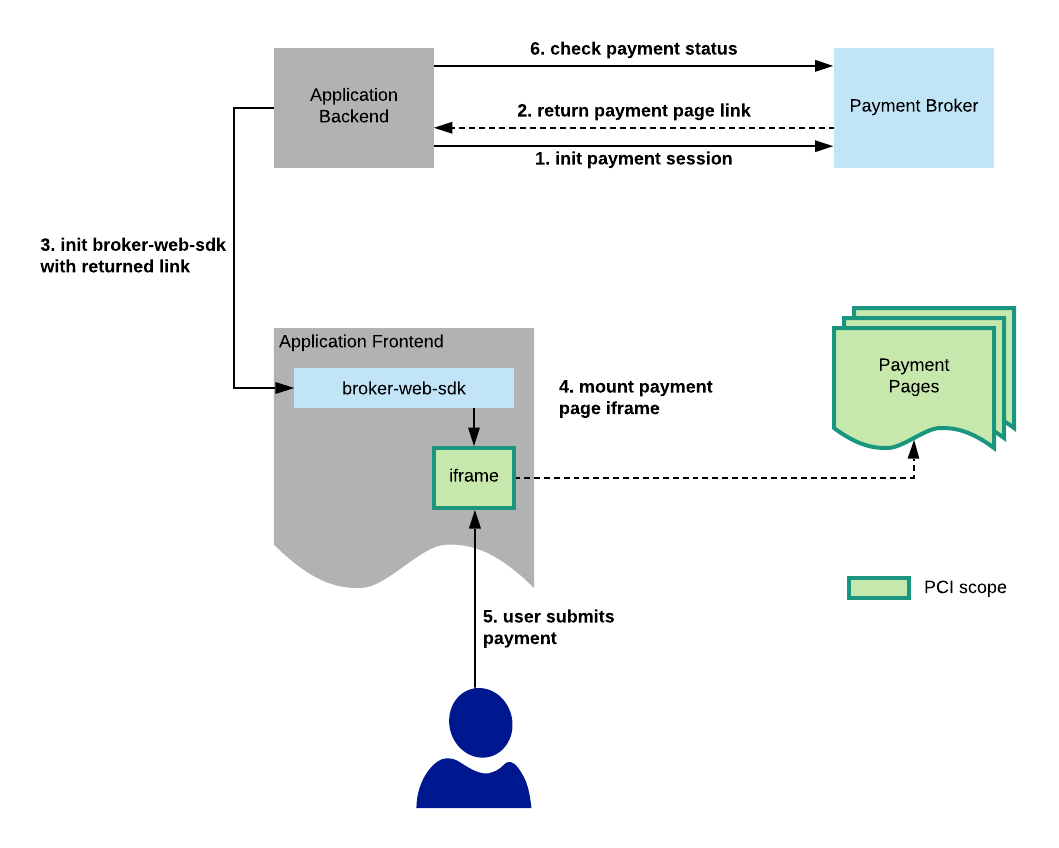
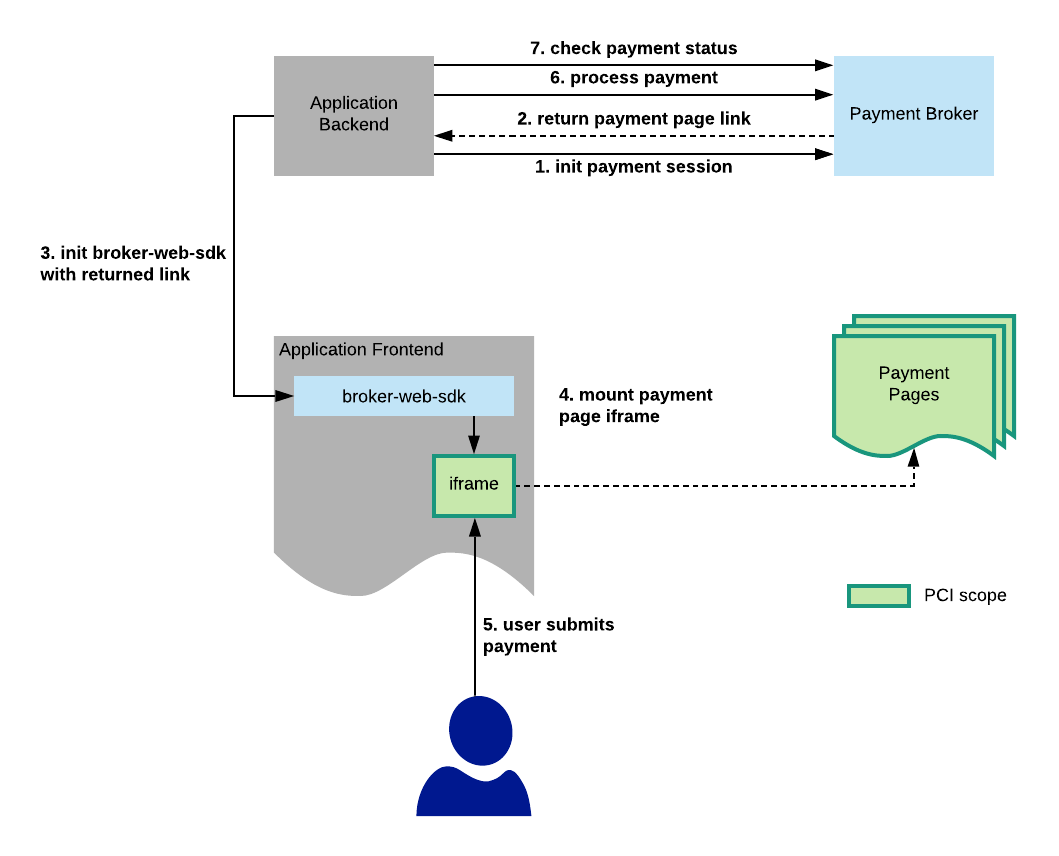
Updates from team meeting

diff --git a/README.md b/README.md
@@ -29,7 +29,7 @@ var BrokerWebSdk = require('@touchnet/broker-web-sdk/umd/broker-web-sdk.min.js')
   If the SDK times-out, but the submission ultimately succeeds, the next submission will fail with a "payer data already collected" error. Your app would need to handle that situation appropriately.
 
 ### Quick Start
-1. Create a payment session by calling `POST /c/{tenantId}/api/v2/customer/ps` . See the Open API documentation for more details
+1. Create a payment session by calling `POST /c/{tenantId}/api/v2/customer/ps`. Your application should provide a [`returnUrl`](#returnUrl) for the end users to return to once the payment session flow is complete. See the Open API documentation for more details
 2. in the response you will find a payment session id and url link labelled `redirectTo` that directs to the next step in the payment flow.
 3. use the `redirectTo` link to initialize the broker SDK by calling the constructor
 ```javascript
@@ -40,6 +40,7 @@ const sdk = new BrokerWebSDK(redirectTo)
 ```javascript
 // Note: `.pay-element` is a query selector for the element in which you want the SDK to insert the form.
 // Some payment methods do not require extra fields, so calling `mount` may not always insert new HTML elements into the DOM.
+// For this reason, mount() will returns a boolean indicating whether it mounted something or not.
 sdk.mount('.pay-element')
 // Register a listener on your own submit event that calls `sdk.submit()`
 const form = document.getElementById("checkout-form");
@@ -59,18 +60,21 @@ form.addEventListener("submit", function(event) {
 > We recommend that you wrap the div or element that you mount the SDK's element in with a form.
 > If you do so, the user can hit enter in the SDK's form and your form's submit event will be
 > triggered automatically.
-5. The user will interact with the broker within this iframe, insulating your application from PCI data. Upon submit, you will receive a response indicating the current status of the payment. This could be: READY_FOR_PROCESS (if all required payer data has been collected), or INITIALIZED (additional payer data required)
-> `submit` will return a Promise that resolves to a result object.
+
+5. The user will interact with the broker within this iframe, insulating your application from PCI data. Upon submit, you will receive a response with either your application return URL link (if all payment data collection is complete) or a link with additional payment steps for the end user to continue the payment.
+> `submit` returns a Promise that resolves to a result object.
 You should check that the result does not have an `error` property.
 If it does not have an error, it will have a `redirectUrl` property.
-This is the URL that the user must visit in order to complete the payment OR
+This property will contain either the URL that the user must visit in order to complete the payment OR
 the same URL you provided as the `returnUrl` when you create a PaymentSession if no extra payment steps are required.
-You have the choice to do a full-page redirect or create an iframe,
+You have the choice to do a full-page redirect, create an iframe, or present this page in a manner of your choosing,
 but the SDK has no control or knowledge of the contents of this page or if it will look good in a small iframe.
-
-6. If the payment is not yet cleared, you can monitor the payment session status by using the payment session id to call `GET /c/{tenantId}/api/v1/ps/{id}`
+6. Application backend observes payment session state after user payment data collection via `GET /c/{tenantId}/api/v1/ps/{id}` and processes the payment via the `/process` endpoint of the payment session
+> Note: Credit card payments additionally require a call to the `/capture` endpoint of the payment session to move the payment to CLEARED.
+7. If the payment is not yet cleared, you can monitor the payment session status by using the payment session id to call `GET /c/{tenantId}/api/v1/ps/{id}`
 
 ### returnUrl
+<a name="returnUrl"></a>
 When your application created a PaymentSession, it should have provided a returnUrl. This page is what the Broker will redirect your user to once a payment is complete.
 
 Your application may want to display information about the results of a transaction to the user after a payment completes.
